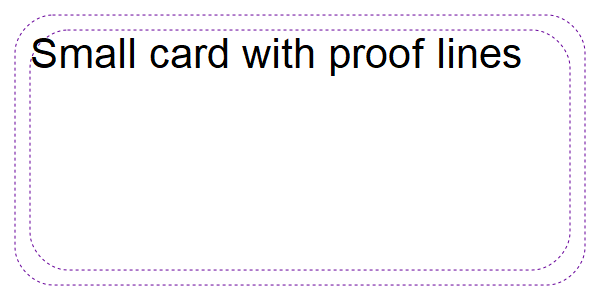
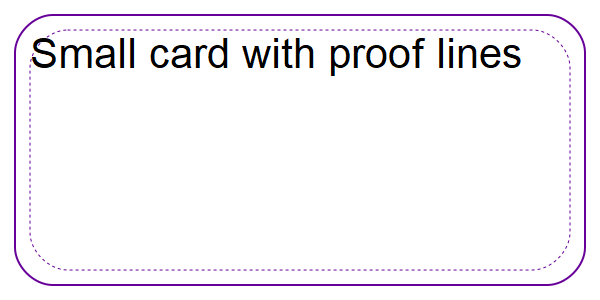
samples: fix to be more consistent

diff --git a/samples/shapes/_proofs.rb b/samples/shapes/_proofs.rb
@@ -13,7 +13,7 @@ end
 Squib::Deck.new(width:'2in', height: '1in')do
   background color: :white
   safe_zone stroke_color: :purple, margin: '0.1in'
-  safe_zone stroke_color: :purple, margin: '0.05in'
+  cut_zone stroke_color: :purple, margin: '0.05in'
 
   text str: 'Small card with proof lines', x: '0.1in', y: '0.1in',
        font: 'Arial 10'
